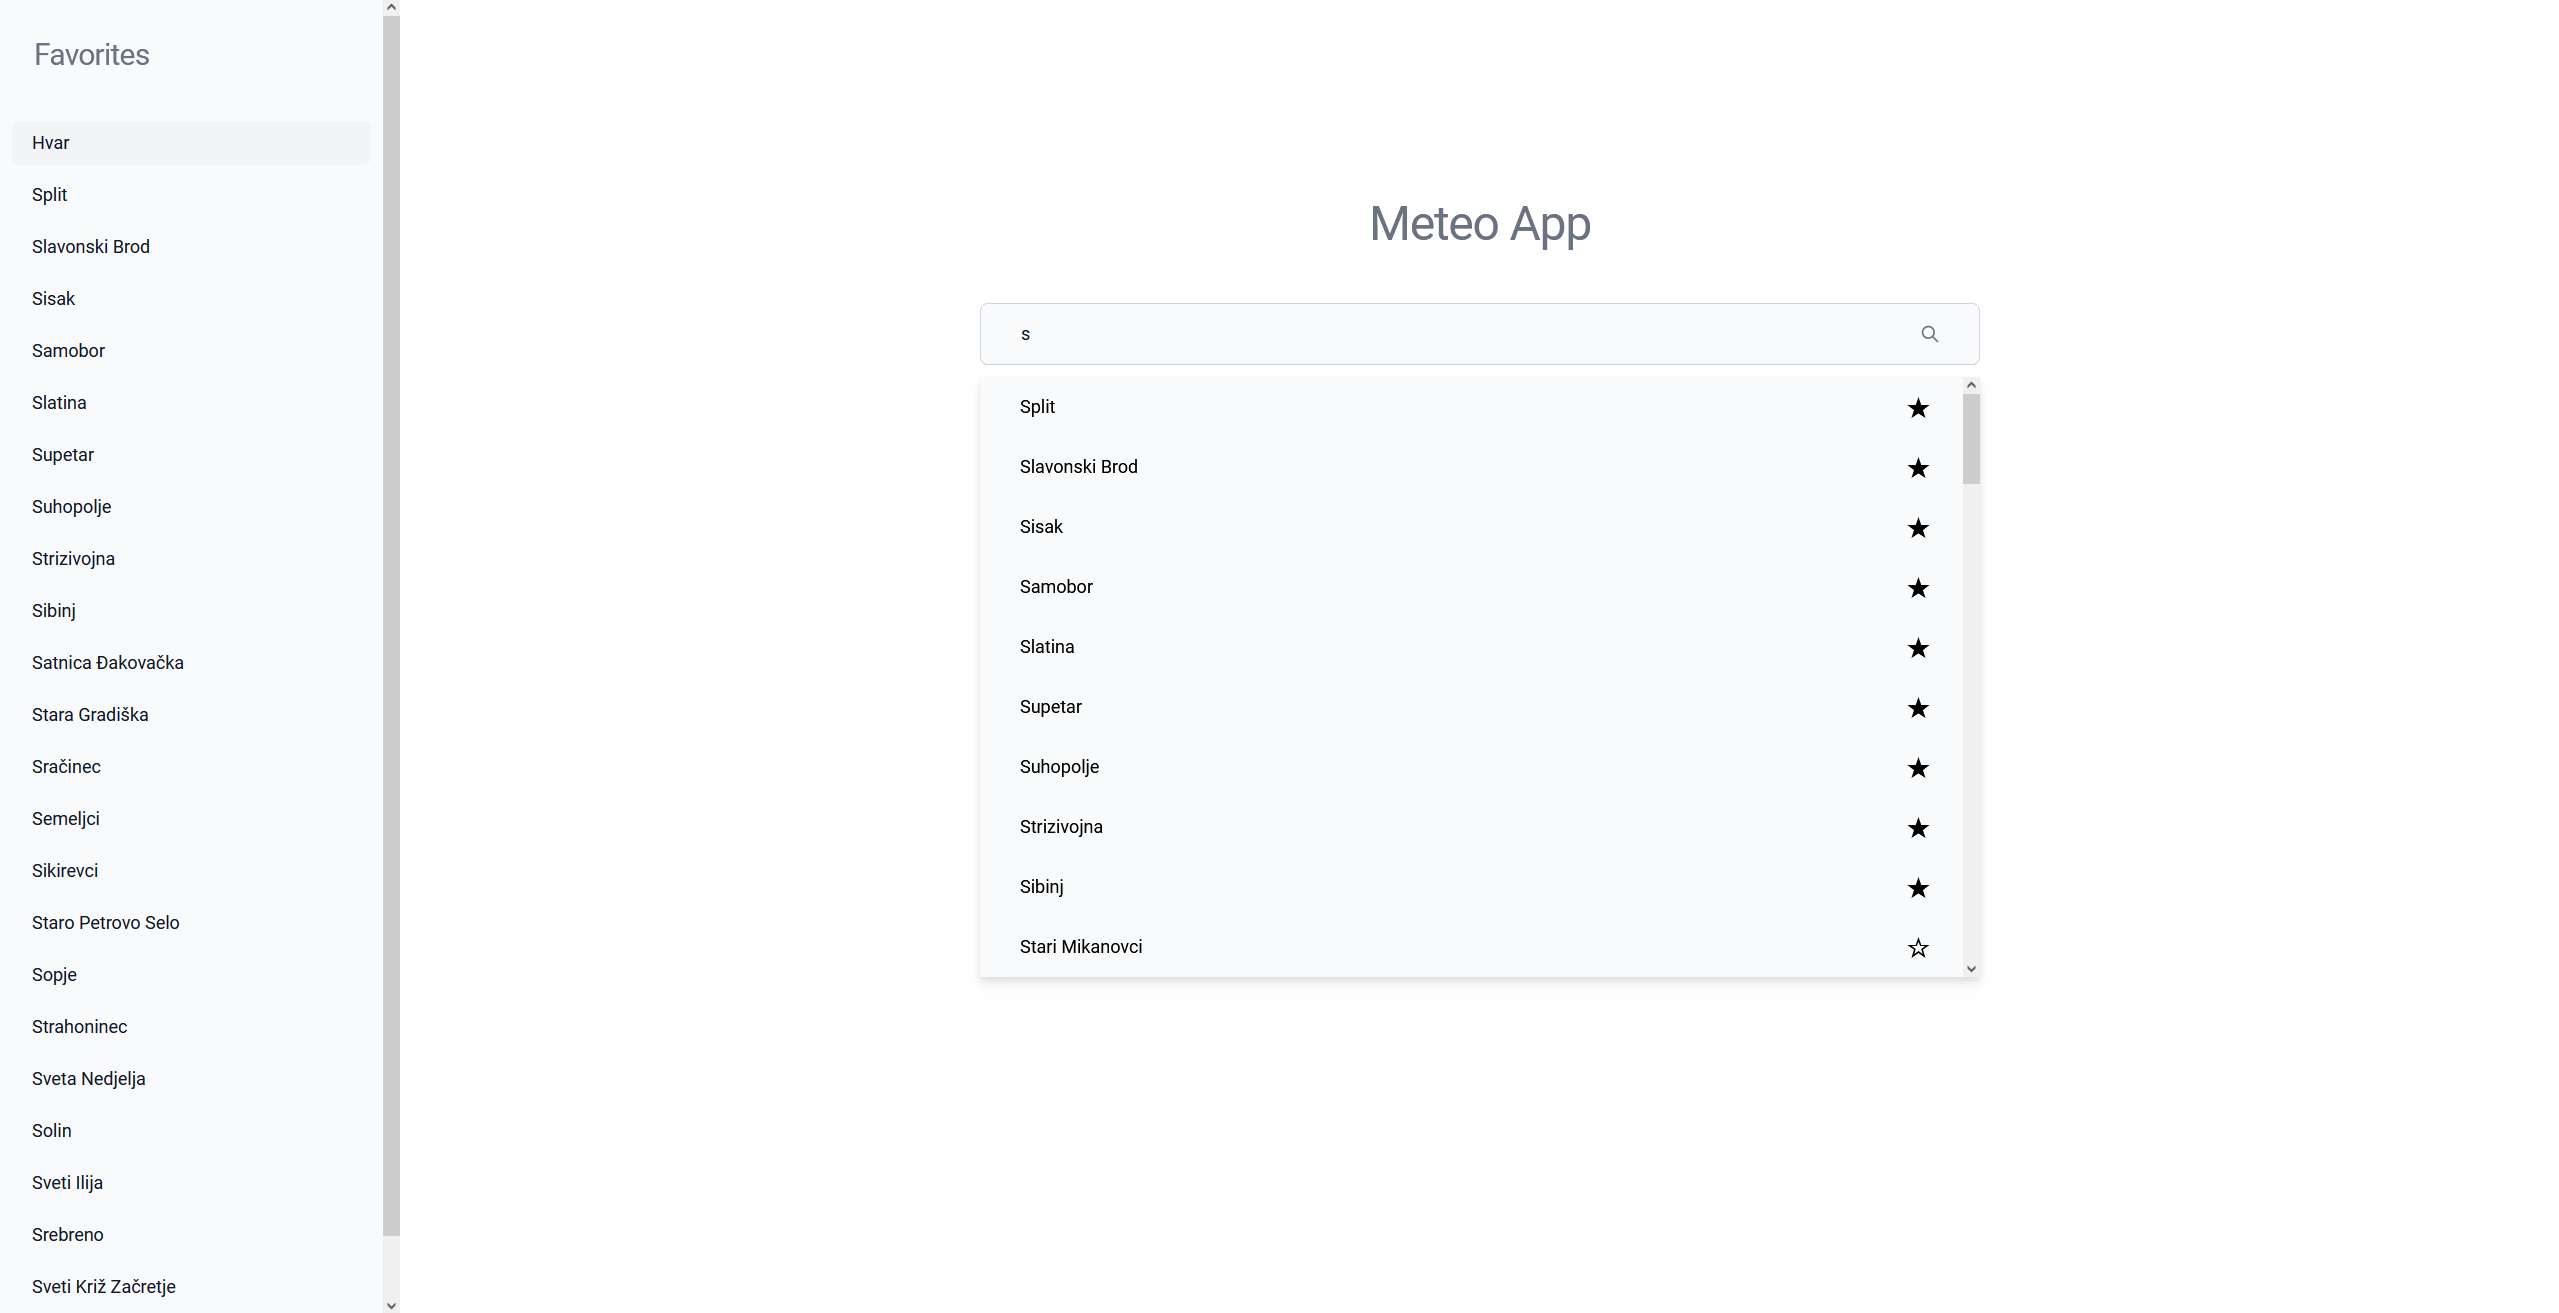
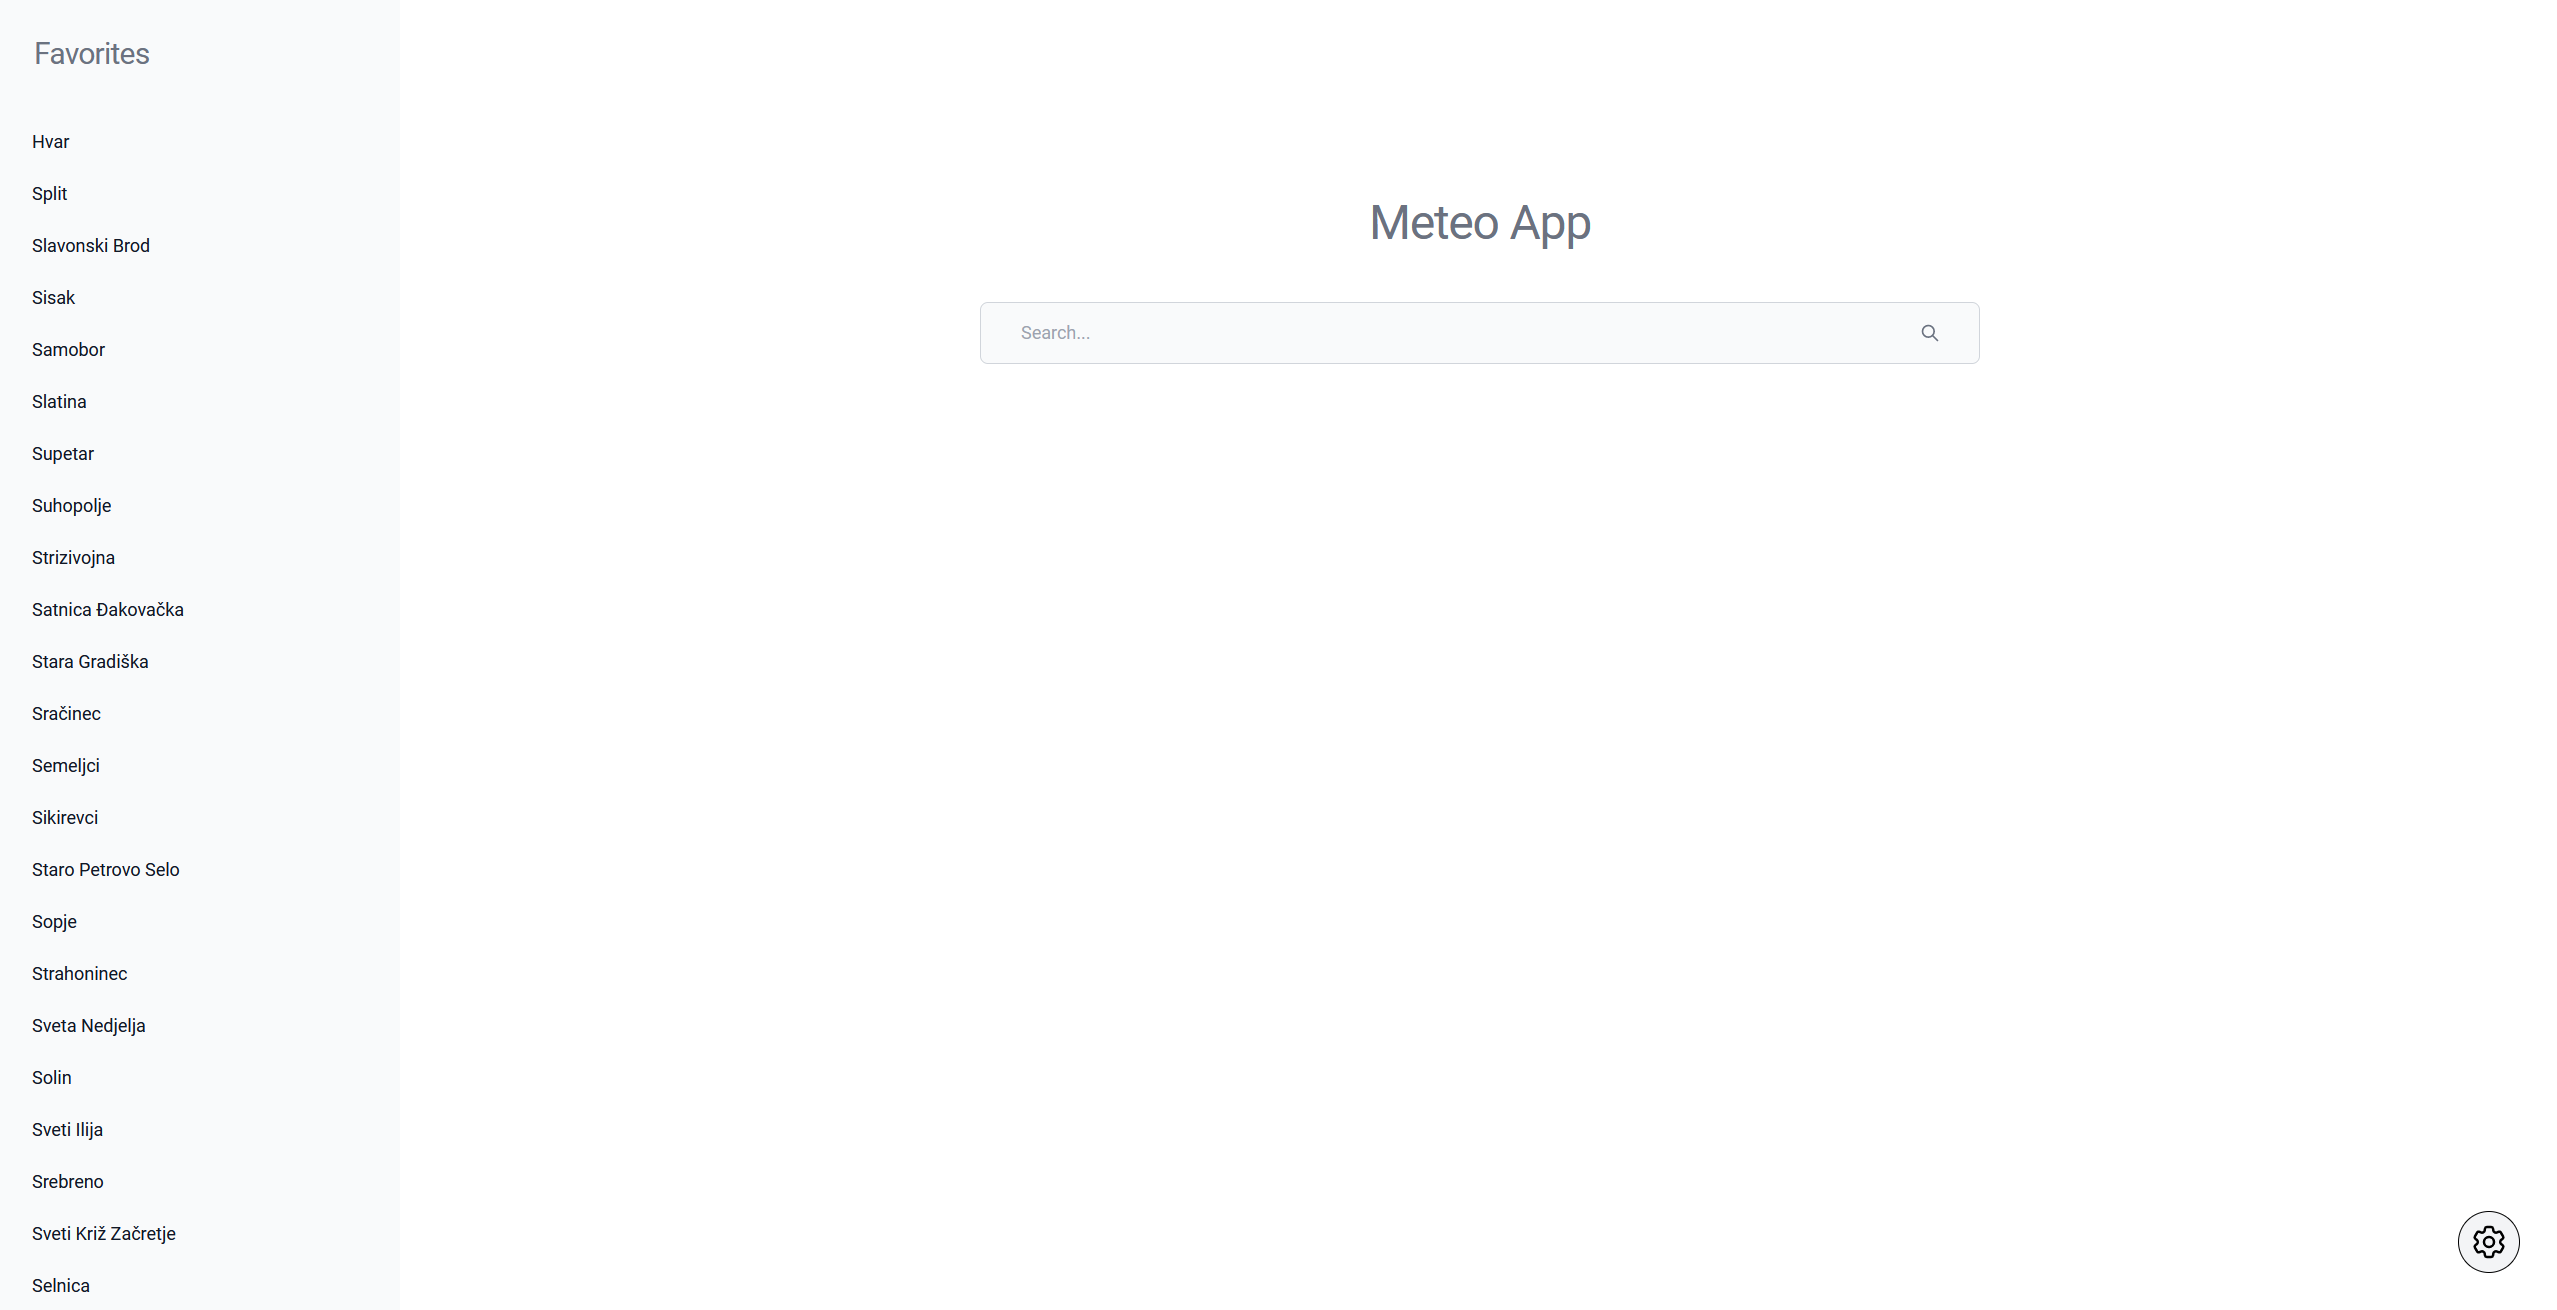
Added screenshots section, added settings modal screenshot

diff --git a/README.md b/README.md
@@ -2,4 +2,9 @@
 
 Version 1.0.0
 
+# Screenshots
+## Home Screen
 ![App screenshot](./screenshot.png)
+
+## Settings Modal
+![Settings screenshot](./settings.png)
